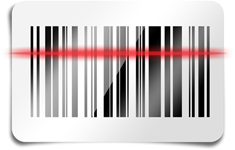
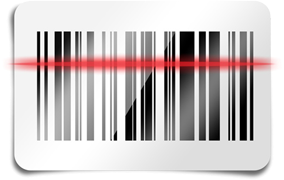
Added warnings / error example. Added sexy background images. Got rid of some start pages. Refs #603

diff --git a/src/dms/apps/mdtui/templates/indexing.html b/src/dms/apps/mdtui/templates/indexing.html
@@ -17,7 +17,7 @@
     </ul>
     {% endif %}
 
-    {% if step == None %}
+    {% if step == None %} {# This step will no long be visible #}
     <p>This is where it begins...</p>
     <a class="btn btn-primary btn-large" href="{% url mdtui-index-1 %}">Start <i class="icon-chevron-right icon-white"></i></a>
     {% endif %}
@@ -28,6 +28,11 @@
             {% csrf_token %}
             <fieldset>
                 <legend>Step {{ step }}: Index Details</legend>
+
+                <div class="alert alert-error">
+                    <a class="close">×</a>
+                    <strong>Error!</strong> Form validation errors go here! (field validation errors go along each field below)
+                </div>
 
                 <div class="control-group">
                     <label class="control-label" for="select_doc_type">Document Type</label>
@@ -177,8 +182,13 @@
 
     {% if step == "3" %}
         <fieldset>
-            <legend>Step {{ step }}: Confirmation Required</legend>
+            <legend>Step {{ step }}: Confirmation</legend>
         </fieldset>
+
+        <div class="alert">
+            <a class="close">×</a>
+            <strong>Warning!</strong> Warnings go here. (eg creating a new parallel key)
+        </div>
 
 
         <form class="form-horizontal" action="{{ request.path }}" method="post">
@@ -201,14 +211,18 @@
 
 {% endblock %}
 
+{% block css_extra %}
+<style type="text/css">
+    #results-table tbody tr.highlight { font-weight: bold; cursor: pointer; }
+    body {
+        background-image: url("{{ STATIC_URL }}barcode-background.png");
+        background-repeat: no-repeat;
+        background-position: 100px 200px;
+    }
+</style>
+{% endblock %}
+
 {% block js_extra %}
 <script type="text/javascript">
-    $(document).ready(function(){
-        //$(".collapse").collapse();
-    });
-
-    $(function () {
-        //$('.tabs a:last').tab('show')
-    })
 </script>
 {% endblock %}

diff --git a/src/dms/apps/mdtui/templates/search.html b/src/dms/apps/mdtui/templates/search.html
@@ -14,7 +14,7 @@
     </ul>
     {% endif %}
 
-    {% if step == None %}
+    {% if step == None %} {# This step will no long be visible #}
         <p>This is where it begins...</p>
         <a class="btn btn-primary btn-large" href="{% url mdtui-search-1 %}">Start <i class="icon-chevron-right icon-white"></i></a>
     {% endif %}
@@ -24,6 +24,11 @@
             {% csrf_token %}
             <fieldset>
                 <legend>Search Options</legend>
+
+                <div class="alert alert-error">
+                    <a class="close">×</a>
+                    <strong>Error!</strong> Form validation errors go here! (field validation errors go along each field below)
+                </div>
 
                 <div class="control-group">
                     <label class="control-label" for="optionsCheckboxList">Document Types</label>
@@ -114,10 +119,10 @@
             <thead>
                 <tr>
                     <th>View</th>
+                    <th><a href="{# sort on this#}">Date</a></th>
                     <th><a href="{# sort on this#}">Key 1</a></th>
                     <th><a href="{# sort on this#}">Key 2</a></th>
                     <th><a href="{# sort on this#}">Key 3</a></th>
-                    <th><a href="{# sort on this#}">Date</a></th>
                     <th><a href="{# sort on this#}">Type</a></th>
                     <th>Edit</th>
                 </tr>
@@ -163,9 +168,13 @@
 {% block css_extra %}
     <style type="text/css">
         #results-table tbody tr.highlight { font-weight: bold; cursor: pointer; }
+        body {
+            background-image: url("{{ STATIC_URL }}search-background.png");
+            background-repeat: no-repeat;
+            background-position: 100px 200px;
+        }
     </style>
 {% endblock %}
-
 
 {% block js_extra %}
     {% if step == "2" %}

diff --git a/src/dms/apps/mdtui/templates/home.html b/src/dms/apps/mdtui/templates/home.html
@@ -1,16 +1,19 @@
 {% extends "base.html" %}
 
 {% block body_content %}
-    <h1>{% block body_title %}Home{% endblock %}</h1>
-    <p>Some nice text about how awesome this all is...</p>
-    <br />
 
     <div class="row">
+        <div class="span12">
+            <h1>{% block body_title %}Home{% endblock %}</h1>
+            <p>To continue choose from the options below:</p>
+            <br />
+        </div>
+    </div>
 
+    <div class="row">
         <div class="span6" style="text-align: center;">
             <p><a href="{% url mdtui-search %}"><img src="{{ STATIC_URL }}search.png" /></a></p>
             <p><a href="{% url mdtui-search %}" class="btn btn-primary btn-large"><i class="icon-search icon-white"></i> Search</a></p>
-            
         </div>
         <div class="span6" style="text-align: center;">
             <p><a href="{% url mdtui-index %}"><img src="{{ STATIC_URL }}barcode.png" /></a></p>

diff --git a/src/dms/apps/mdtui/urls.py b/src/dms/apps/mdtui/urls.py
@@ -13,11 +13,12 @@ import mdtui.views
 
 urlpatterns = patterns('mdtui.views',
     url(r'^$', direct_to_template, {'template': 'home.html'}, name='mdtui-home'),
-    url(r'^search/$', 'search', name='mdtui-search'),
+
+    url(r'^search/$', 'search', {'step':'1',}, name='mdtui-search'),
     url(r'^search/options$', 'search', {'step':'1',}, name='mdtui-search-1'),
     url(r'^search/results$', 'search', {'step':'2',},name='mdtui-search-2'),
 
-    url(r'^indexing/$', 'indexing', name='mdtui-index'),
+    url(r'^indexing/$', 'indexing', {'step':'1',}, name='mdtui-index'),
     url(r'^indexing/1$', 'indexing', {'step':'1',}, name='mdtui-index-1'),
     url(r'^indexing/2$', 'indexing', {'step':'2',}, name='mdtui-index-2'),
     url(r'^indexing/3$', 'indexing', {'step':'3',}, name='mdtui-index-3'),
